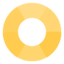
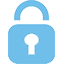
修改了插件图标

diff --git a/popup.html b/popup.html
@@ -125,7 +125,7 @@
     }
     
     .cellconfig {
-      width: 56px;
+      width: 20px;
       height: 30px;
       cursor: pointer;
       display: table-cell;
@@ -135,8 +135,34 @@
[1 lines of base64/hex data omitted]
     }
     
-    .cellconfig:hover {
+    .cellconfig:hover ,.cellbutton_user:hover ,.cellbutton_password:hover{
       background-color: #E2E2E2;
+    }
+	    
+    .cellbutton_user {
+      width: 40px;
+      height: 30px;
+      cursor: pointer;
+      display: table-cell;
+      background-size: 16px 16px;
+      background-repeat: no-repeat;
+      background-position: center center;
+	  text-align:center;
+	  vertical-align:middle;
[1 lines of base64/hex data omitted]
+    }
+	    
+    .cellbutton_password {
+      width: 40px;
+      height: 30px;
+      cursor: pointer;
+      display: table-cell;
+      background-size: 16px 16px;
+      background-repeat: no-repeat;
+      background-position: center center;
+	  text-align:center;
+	  vertical-align:middle;
[1 lines of base64/hex data omitted]
     }
     
     #moreDiv {

diff --git a/js/popup.js b/js/popup.js
@@ -130,14 +130,14 @@ var contentPopup = {
       if (response[i].available)
         itemStr += 'active';
       itemStr += '" aid=' + response[i].id + '>';
-      itemStr += '<div class="cellimg"></div>';
-      itemStr += '<div class="cellstr"><p class="cellname">';
+      // itemStr += '<div class="cellimg"></div>';
+      itemStr += '<div class="cellstr" style="margin-left:10px;cursor: pointer;" ><p class="cellname">';
       itemStr += response[i].name || '(empty)';
       itemStr += '</p>';
       itemStr += '<p class="cellinfo">';
       itemStr += response[i].userName || '(empty)';
       itemStr += '</p>';
-      itemStr += '</div><div class="cellconfig"></div></li>';
+      itemStr += '</div><div class="cellbutton_user" title="复制用户名" action="copyusername"></div><div class="cellbutton_password" title="复制密码" action="copypassword"></div><div class="cellconfig" action="edit"></div></li>';
     }
     //为空时显示empty页面
     if (response.length === 0) {
@@ -157,21 +157,24 @@ function eventFire() {
 		// alert();
 	// });
 
-  document.oncontextmenu = function (e) {
-    // 右键点击tr
-    if (e.target.tagName == 'LI' || e.target.parentNode.tagName == 'LI' || e.target.parentNode.parentNode.tagName == 'LI') {
-      var aid = getAid(e);
-      if (!aid) return;
-      document.getElementById('headerdiv').style.display = 'none';
-      document.getElementById('headerback').style.display = 'block';
-      document.getElementById('moreDiv').setAttribute('aid', aid);
-      document.getElementById('moreDiv').style.display = 'block';
-      document.getElementById('popupcontainer').style.display = 'none';
-      e.preventDefault();
-    }
+	// 右键点击tr
+  // document.oncontextmenu = function (e) {
+    
+    // if (e.target.tagName == 'LI' || e.target.parentNode.tagName == 'LI' || e.target.parentNode.parentNode.tagName == 'LI') {
+      // var aid = getAid(e);
+      // if (!aid) return;
+      // document.getElementById('headerdiv').style.display = 'none';
+      // document.getElementById('headerback').style.display = 'block';
+      // document.getElementById('moreDiv').setAttribute('aid', aid);
+      // document.getElementById('moreDiv').style.display = 'block';
+      // document.getElementById('popupcontainer').style.display = 'none';
+      // e.preventDefault();
+    // }
 
-  };
+  // };
 
+  
+  
   document.addEventListener('click', function (e) {
 	if (e.target.attributes['action'] && e.target.attributes['action'].value == 'buttonadd' ) {
 		  //localStorage.tpw_tabDialogId = document.getElementById('moreDiv').attributes['aid'].value;
@@ -195,7 +198,11 @@ function eventFire() {
       e.preventDefault();
       //动作 点击编辑
     } else if (e.target.attributes['action'] && e.target.attributes['action'].value == 'edit') {
-      localStorage.tpw_tabDialogId = document.getElementById('moreDiv').attributes['aid'].value;
+      var aid = getAid(e);
+      if (!aid) return;
+	
+      // localStorage.tpw_tabDialogId = document.getElementById('moreDiv').attributes['aid'].value;
+      localStorage.tpw_tabDialogId = aid;
       chrome.runtime.sendMessage({
         type: "openTabDialog"
       });
@@ -211,7 +218,10 @@ function eventFire() {
     } else if (e.target.attributes['action'] && (e.target.attributes['action'].value == 'copypassword' ||
         e.target.attributes['action'].value == 'copyusername' ||
         e.target.attributes['action'].value == 'copyurl')) {
-      var aid = document.getElementById('moreDiv').attributes['aid'].value;
+		
+      var aid = getAid(e);
+      if (!aid) return;
+      // var aid = document.getElementById('moreDiv').attributes['aid'].value;
       contentPopup.getItem(aid, function (result) {
         if (result.msg == 'ok') {
           var copyInput = document.createElement('input');
@@ -230,14 +240,14 @@ function eventFire() {
           contentPopup.closeContentPopup();
         }
       })
-    } else if (e.target.className == 'cellconfig') {
-      var aid = getAid(e);
-      if (!aid) return;
-      document.getElementById('headerdiv').style.display = 'none';
-      document.getElementById('headerback').style.display = 'block';
-      document.getElementById('moreDiv').setAttribute('aid', aid);
-      document.getElementById('moreDiv').style.display = 'block';
-      document.getElementById('popupcontainer').style.display = 'none';
+    // } else if (e.target.className == 'cellconfig') {
+      // var aid = getAid(e);
+      // if (!aid) return;
+      // document.getElementById('headerdiv').style.display = 'none';
+      // document.getElementById('headerback').style.display = 'block';
+      // document.getElementById('moreDiv').setAttribute('aid', aid);
+      // document.getElementById('moreDiv').style.display = 'block';
+      // document.getElementById('popupcontainer').style.display = 'none';
       // 点击tr
     } else if (e.target.tagName == 'LI' || e.target.parentNode.tagName == 'LI' || e.target.parentNode.parentNode.tagName == 'LI') {
       var aid = getAid(e);
@@ -246,6 +256,7 @@ function eventFire() {
         contentPopup.insertContentScript(aid);
       }
     } else if (window.content) {
+		
       contentPopupEvent(e);
     }
   });

diff --git a/optionsE.html b/optionsE.html
@@ -218,7 +218,7 @@
       <div>
         <div id="databaseArea">
           <label class="label first">数据储存地址</label>
-          <input class="dialogInput" id="dataBaseURL" type="text" placeholder="http://password.sxyandapp.top" autocomplete="true">
+          <input class="dialogInput" id="dataBaseURL" type="text" placeholder="" autocomplete="true">
 		  <label class="label first">访问令牌（可选）</label>
 		  <input class="dialogInput" id="dataBaseTOKEN" type="text" autocomplete="true">
         </div>
